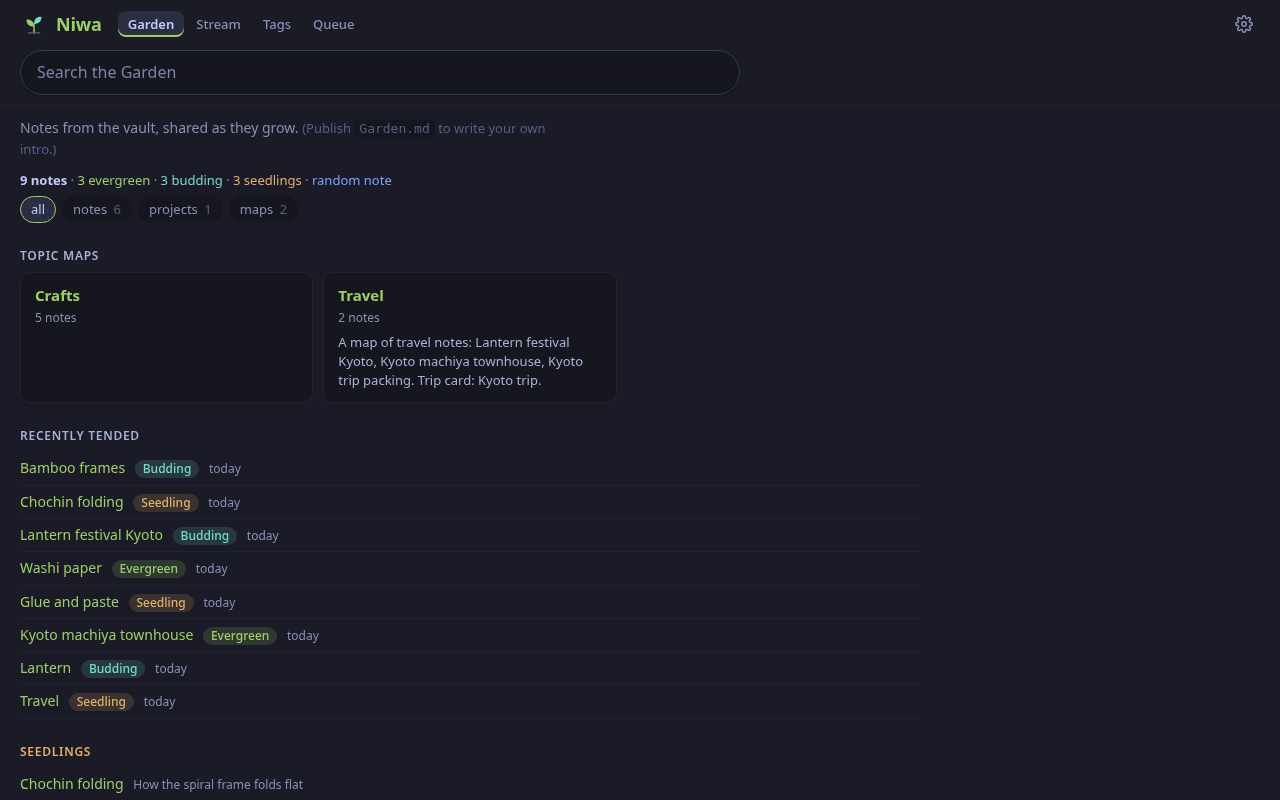
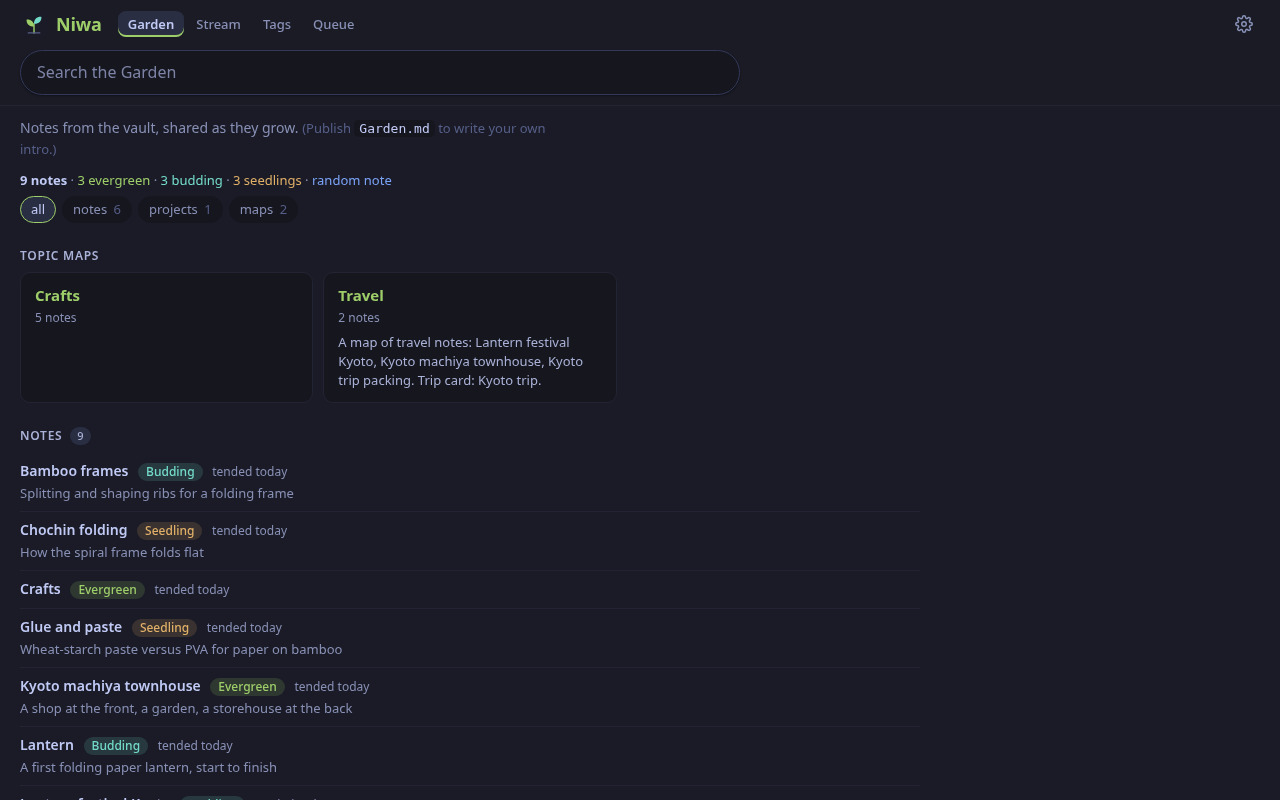
machiya: Niwa 0.9.0's landing page in the README and on the site (shots from niwa 2ebab21 and cc8605c)

Changed region(s): [[0.0, 0.5312, 0.2812, 1.0], [0.2812, 0.1562, 0.3125, 0.1875]]

diff --git a/site/index.html b/site/index.html
@@ -121,10 +121,10 @@
           <img src="img/notes-kura-dark.webp" width="1920" height="1080" loading="lazy" decoding="async" alt="Kura showing the note Washi paper: its tags, a table of paper weights and handling steps, beside a list of recently changed notes.">
         </picture>
         <picture class="phone only-light">
-          <img src="img/notes-niwa-phone-light.webp" width="780" height="1688" loading="lazy" decoding="async" alt="Niwa on a phone: the published notes, with topic maps for crafts and travel and recently tended notes marked Seedling, Budding or Evergreen.">
+          <img src="img/notes-niwa-phone-light.webp" width="780" height="1688" loading="lazy" decoding="async" alt="Niwa on a phone: the published notes, with topic maps for crafts and travel, then every note, most recently tended first, marked Seedling, Budding or Evergreen.">
         </picture>
         <picture class="phone only-dark">
-          <img src="img/notes-niwa-phone-dark.webp" width="780" height="1688" loading="lazy" decoding="async" alt="Niwa on a phone: the published notes, with topic maps for crafts and travel and recently tended notes marked Seedling, Budding or Evergreen.">
+          <img src="img/notes-niwa-phone-dark.webp" width="780" height="1688" loading="lazy" decoding="async" alt="Niwa on a phone: the published notes, with topic maps for crafts and travel, then every note, most recently tended first, marked Seedling, Budding or Evergreen.">
         </picture>
       </figure>
     </div>

diff --git a/README.md b/README.md
@@ -15,7 +15,7 @@ A machiya (町家) is a Kyoto townhouse: a shop at the front, a small garden ins
 <table>
   <tr>
     <td align="center" width="33%"><a href="docs/screenshots/kura-home-light.png"><img src="docs/screenshots/kura-home-light.png" alt="Kura, light: the vault's folders and notes, with a note open" width="100%"></a><br>Kura: read your notes</td>
-    <td align="center" width="33%"><a href="docs/screenshots/niwa-garden-dark.png"><img src="docs/screenshots/niwa-garden-dark.png" alt="Niwa, dark: the published garden with topic maps and recently tended notes" width="100%"></a><br>Niwa: grow your digital garden</td>
+    <td align="center" width="33%"><a href="docs/screenshots/niwa-garden-dark.png"><img src="docs/screenshots/niwa-garden-dark.png" alt="Niwa, dark: the published garden with topic maps, then every note, most recently tended first, with its stage" width="100%"></a><br>Niwa: grow your digital garden</td>
     <td align="center" width="33%"><a href="docs/screenshots/konbini-board-light.png"><img src="docs/screenshots/konbini-board-light.png" alt="Konbini, light: a kanban board of project cards" width="100%"></a><br>Konbini: manage your projects</td>
   </tr>
 </table>
